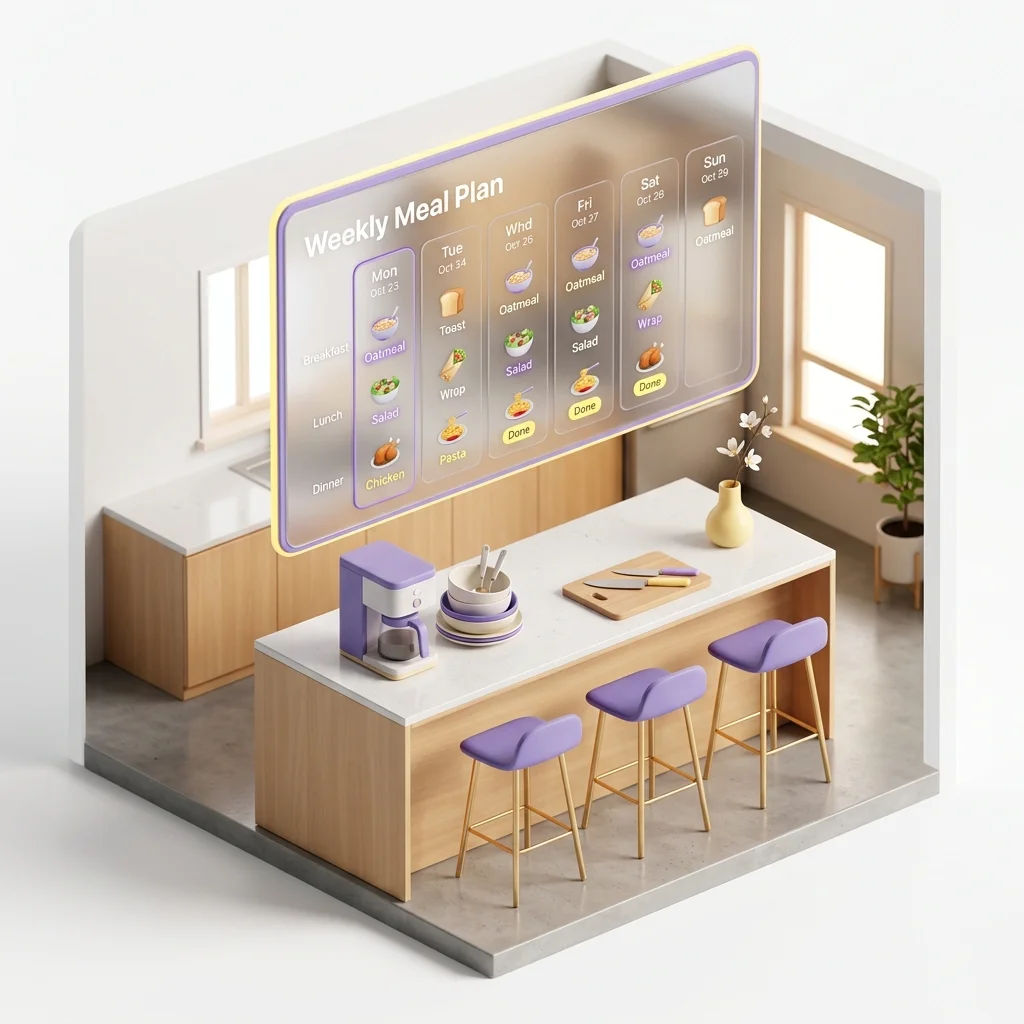
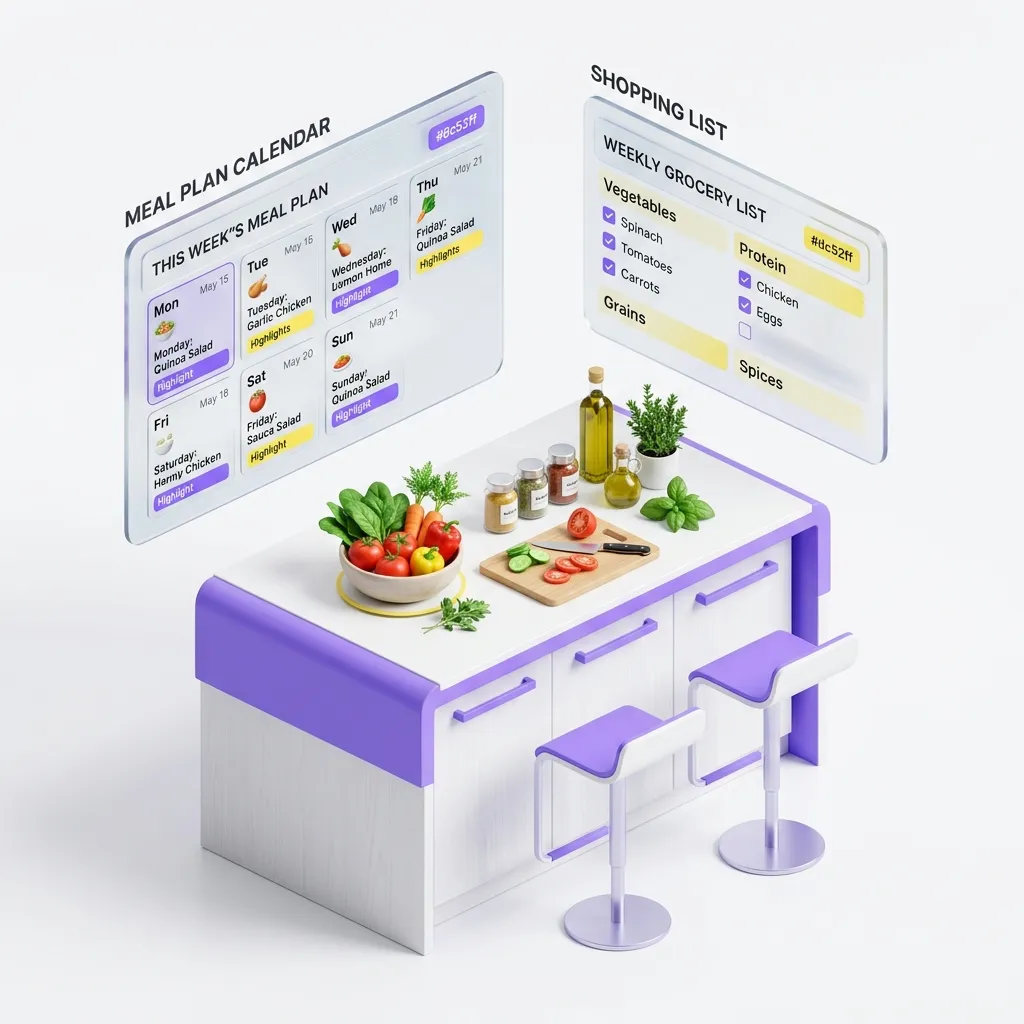
chore(seo): Convert blog images to webp for performance optimization

diff --git a/content/blog/gamifying-household-chores.md b/content/blog/gamifying-household-chores.md
@@ -4,7 +4,7 @@ description: "Why do we hate doing the dishes but love grinding for XP in video 
 author: "DoneSpace Team"
 date: "2026-08-15"
 category: "Household Management"
-image: "/static/blog_gamify.jpg"
+image: "/static/blog_gamify.webp"
 ---
 
 Why is it that we will happily spend three hours repeating a tedious task in a video game just to level up, but the thought of spending 15 minutes folding laundry fills us with existential dread? 

diff --git a/content/blog/sync-family-schedules.md b/content/blog/sync-family-schedules.md
@@ -4,7 +4,7 @@ description: "The modern family schedule is a logistical nightmare. Discover the
 author: "DoneSpace Team"
 date: "2026-08-15"
 category: "Household Management"
-image: "/static/blog_calendar.jpg"
+image: "/static/blog_calendar.webp"
 ---
 
 Between soccer practices, late work meetings, dentist appointments, and grocery runs, managing a household schedule in 2026 can feel like running an air traffic control tower.

diff --git a/content/blog/roommate-meal-prep-guide.md b/content/blog/roommate-meal-prep-guide.md
@@ -4,7 +4,7 @@ description: "Splitting groceries and planning dinners doesn't have to be a math
 author: "DoneSpace Team"
 date: "2026-08-15"
 category: "Household Management"
-image: "/static/blog_meals.jpg"
+image: "/static/blog_meals.webp"
 ---
 
 Sharing a kitchen with roommates can either be a fun, social experience or a passive-aggressive nightmare involving stolen milk and overflowing trash cans.
